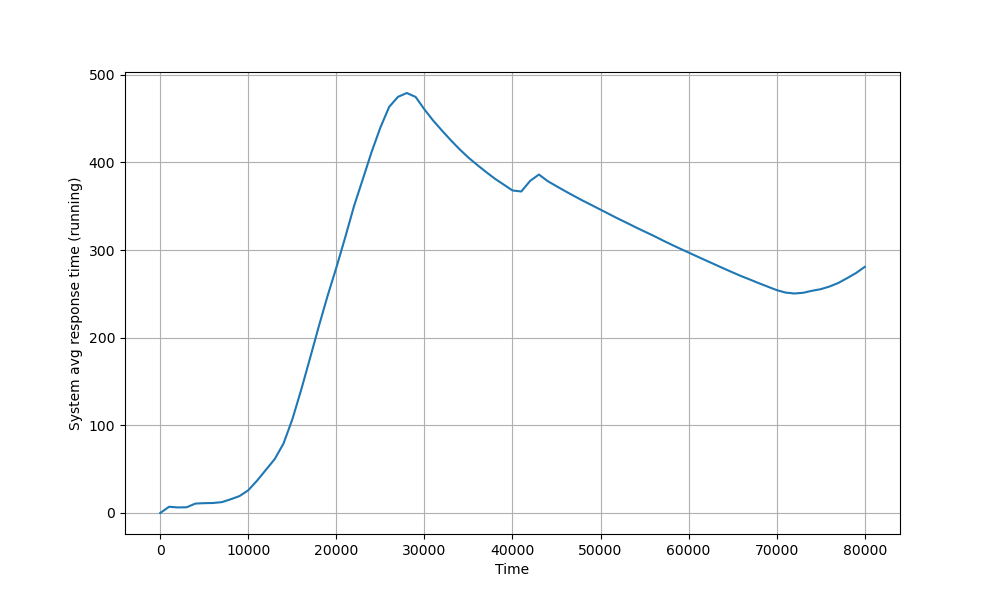
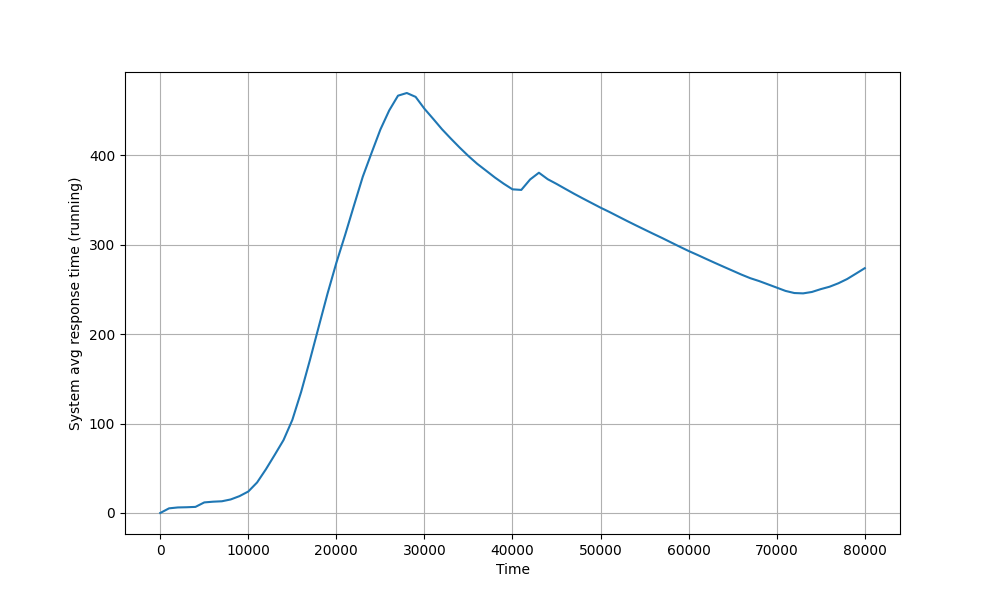
fix SI e spike: scaling simulator

diff --git a/simulation/scaling_simulator.py b/simulation/scaling_simulator.py
@@ -1,16 +1,14 @@
 import utils.variables as vs
-import traceback
 from utils.sim_utils import*
 from utils.sim_output import *
 from libraries.rngs import *
 from utils.sim_stats import*
 from utils.variables import *
-import math
 from libraries.rngs import *
 
 plantSeeds(SEED)
 
-time_checkpoints = list(range(0, STOP_ANALYSIS, 1000))  # Checkpoint each 1000 sec
+time_checkpoints = list(range(0, STOP_ANALYSIS, 1000))  # Checkpoint ogni 1000 sec
 current_checkpoint = 0
 
 return_times_P = [] #lista che contiene i tempi dei job che escono da P, e vanno in A
@@ -35,7 +33,7 @@ def update_completion(jobs, current_time):
 # =========================
 def update_completion_B(jobs, current_time, m_servers: int):
     """
-    Completion time per B come PS con m server (pooled).
+    Completion time per B come PS con m server.
     - Se n <= m: ogni job usa 1 server -> delta = dt, completion = current + min_rem
     - Se n > m: capacità totale m divisa tra n job -> completion = current + min_rem * n / m
     """
@@ -78,7 +76,6 @@ def adjust_servers_layer1(stats, lambda_current):
 
     # scala in giù
     elif rho < RHO_DOWN and num > MIN_SERVERS:
-    # nel modello pooled, non usiamo più s["jobs"]
     # rimuovo un server solo se ci sono meno job che server
         if len(stats.B_jobs) < num:
             stats.layer1_servers.pop()
@@ -131,7 +128,7 @@ def execute(stats, stop):
 
     mB = len(stats.layer1_servers) if stats.layer1_servers else 1 # numero di server attivi nel layer 1
     
-    # capacità attiva (server-on seconds) anche se non ci sono job
+    
     stats.area_B.capacity += dt * mB
 
     # --- B: aggiornamento aree e servizio (PS) ---
@@ -140,7 +137,7 @@ def execute(stats, stop):
         busy = min(mB, nB)
 
         stats.area_B.node += dt * nB
-        stats.area_B.service += dt * busy   # NOTA: ora è "server-seconds" (può essere > dt)
+        stats.area_B.service += dt * busy   
 
         # quota di servizio ricevuta da ciascun job in dt
         delta = dt * busy / nB
@@ -193,14 +190,14 @@ def execute(stats, stop):
 
         if job["classe"] == 1:
             # job classe 1 → B oppure SPIKE in base a SI
-            # SI = numero di job nel layer 1 (qui usiamo B come layer1 aggregato)
+            # SI = numero di job nel layer 1 (qui usiamo B come layer1 )
 
-            # SCALING ORIZZONTALE: aggiorno il numero di server del layer 1
-            # SCALING ORIZZONTALE: usa lambda variabile
+            # SCALING ORIZZONTALE: aggiorno il numero di server del layer 1 (server B)
             lam_now = lambda_scaling(stats.t.current)
             adjust_servers_layer1(stats, lambda_current=lam_now)
+            mB_now = max(1, len(stats.layer1_servers))
 
-            # (opzionale) salva lambda per i plot
+            #salva lambda per i plot
             if not hasattr(stats, "lambda_times"):
                 stats.lambda_times = []
             stats.lambda_times.append((stats.t.current, lam_now))
@@ -208,24 +205,33 @@ def execute(stats, stop):
             SI = len(stats.B_jobs)
             stats.SI_samples.append(SI)
 
+            nB = len(stats.B_jobs)
 
-            SI = len(stats.B_jobs)
+            SI_excess_after = max(0, (nB + 1) - mB_now)
 
-            if SI < SImax:
+            if SI_excess_after < SImax:
                 # layer 1 NON saturo → va in B
                 jid_B = stats.next_job_id
                 stats.next_job_id += 1
                 stats.B_jobs[jid_B] = {"rem": get_service_B()}
                 stats.index_A1 += 1
-                stats.t.completion_B = update_completion_B(stats.B_jobs, stats.t.current, mB)
+                stats.t.completion_B = update_completion_B(stats.B_jobs, stats.t.current, mB_now)
             else:
                 # layer 1 saturo → va allo SPIKE
+
+                was_empty = (len(stats.spike_server) == 0)
+
                 jid_S = stats.next_job_id
                 stats.next_job_id += 1
                 stats.spike_server[jid_S] = {"rem": get_service_spike()}
-                stats.spike_events.append(stats.t.current)  # un job è entrato nello spike in questo istante
+                stats.spike_events.append(stats.t.current) 
                 stats.index_A1 += 1
                 stats.index_spike += 1
+
+                if was_empty:
+                    stats.spike_active_times.append((stats.t.current, 1))
+
+
                 stats.t.completion_spike = update_completion(
                     stats.spike_server, stats.t.current
                 )
@@ -258,8 +264,10 @@ def execute(stats, stop):
         stats.next_job_id += 1
         stats.A_jobs[jid_A2] = {"classe": 2, "rem": get_service_A(2)}
 
+        mB_now = max(1, len(stats.layer1_servers))
+
         stats.t.completion_A = update_completion(stats.A_jobs, stats.t.current)
-        stats.t.completion_B = update_completion_B(stats.B_jobs, stats.t.current, mB)
+        stats.t.completion_B = update_completion_B(stats.B_jobs, stats.t.current, mB_now)
 
     # --- COMPLETION IN P ---
     elif stats.t.current == stats.t.completion_P:
@@ -280,6 +288,8 @@ def execute(stats, stop):
 
         jid, job = min(stats.spike_server.items(), key=lambda x: x[1]["rem"])
         del stats.spike_server[jid]
+        if len(stats.spike_server) == 0:
+            stats.spike_active_times.append((stats.t.current, 0))
 
         # lo tratto come B "potenziato" → dopo spike → A come classe 2
         jid_A2 = stats.next_job_id
@@ -308,7 +318,10 @@ def scaling_finite_simulation(stop):
     stats = SimulationStats()
     stats.reset(vs.START)
 
-    # opzionale: almeno un server nel layer 1
+    #per plot spike 
+    stats.spike_active_times = [(stats.t.current, 0)]
+
+    # almeno un server nel layer 1
     stats.layer1_servers = [{"id": 0, "jobs": {}}]
 
     # primo arrivo esterno
@@ -376,10 +389,11 @@ def scaling_finite_simulation(stop):
     stats.calculate_area_queue()
     horizon = stats.t.current
 
-    si_p99 = percentile_nearest_rank(stats.SI_samples, 99)
-    SImax_est = si_p99 + 1   
-    print("SImax stimato (p99+1) =", SImax_est)
-    print("Arrivo job in spike server (timestamps):", stats.spike_events)
+    # CODICE USATO PER IL CALCOLO DI SImax STIMATO
+    # si_p99 = percentile_nearest_rank(stats.SI_samples, 99)
+    # SImax_est = si_p99 + 1   
+    # print("SImax stimato (p99+1) =", SImax_est)
+    # print("Arrivo job in spike server (timestamps):", stats.spike_events)
 
     return return_stats(stats, horizon, s), stats
 

diff --git a/utils/sim_output.py b/utils/sim_output.py
@@ -108,3 +108,27 @@ def plot_active_servers_t(layer1_servers_times, sim_type, name):
     plt.savefig(output_path)
     plt.close()
 
+def plot_spike_active_t(spike_active_times, sim_type, name):
+    """
+    spike_active_times: lista di tuple (t, 0/1)
+    Salva in output/plot/{sim_type}/{name}.png
+    """
+    output_dir = f"simulation/../output/plot/{sim_type}"
+
+    if not spike_active_times:
+        spike_active_times = [(0, 0)]
+
+    x_values = [t for t, _ in spike_active_times]
+    y_values = [a for _, a in spike_active_times]
+
+    plt.figure(figsize=(10, 6))
+    plt.step(x_values, y_values, where='post')
+    plt.xlabel('Time')
+    plt.ylabel('Spike server active (0/1)')
+    plt.ylim(-0.1, 1.1)
+    plt.grid(True)
+
+    os.makedirs(output_dir, exist_ok=True)
+    output_path = os.path.join(output_dir, f'{name}.png')
+    plt.savefig(output_path)
+    plt.close()

diff --git a/main.py b/main.py
@@ -76,6 +76,8 @@ def start_scaling_sim():
             plot_system_avg_response_time_t(stats.system_resp_times, vs.SIM_TYPE, "system_resp_t")
             plot_active_servers_t(stats.layer1_servers_times, vs.SIM_TYPE, "servers_t")
 
+            plot_spike_active_t(stats.spike_active_times, vs.SIM_TYPE, "spike_active_t")
+
             print(f"end scaling replication {i+1}")
             write_file(results, file_name)
             append_stats(replicationStats, results, stats)
@@ -102,7 +104,6 @@ def start():
             get_simulation(choice)
             start_simulation()
         elif choice == 3:
-            get_simulation(choice)
             start_scaling_sim()
         else:
             print("Invalid choice.")

diff --git a/utils/variables.py b/utils/variables.py
@@ -48,7 +48,7 @@ REPLICATIONS = 10
 PRINT_PLOT_BATCH = 1
 
 # --- PARAMETRI DI SCALING ---
-SImax = 9 #calcolato analiticamente usando la distribuzione geometrica
+SImax = 15 
 MIN_SERVERS = 1
 MAX_SERVERS = 2 #calcolato analiticamente 
 RHO_UP = 0.8 #rho target per scalare up
